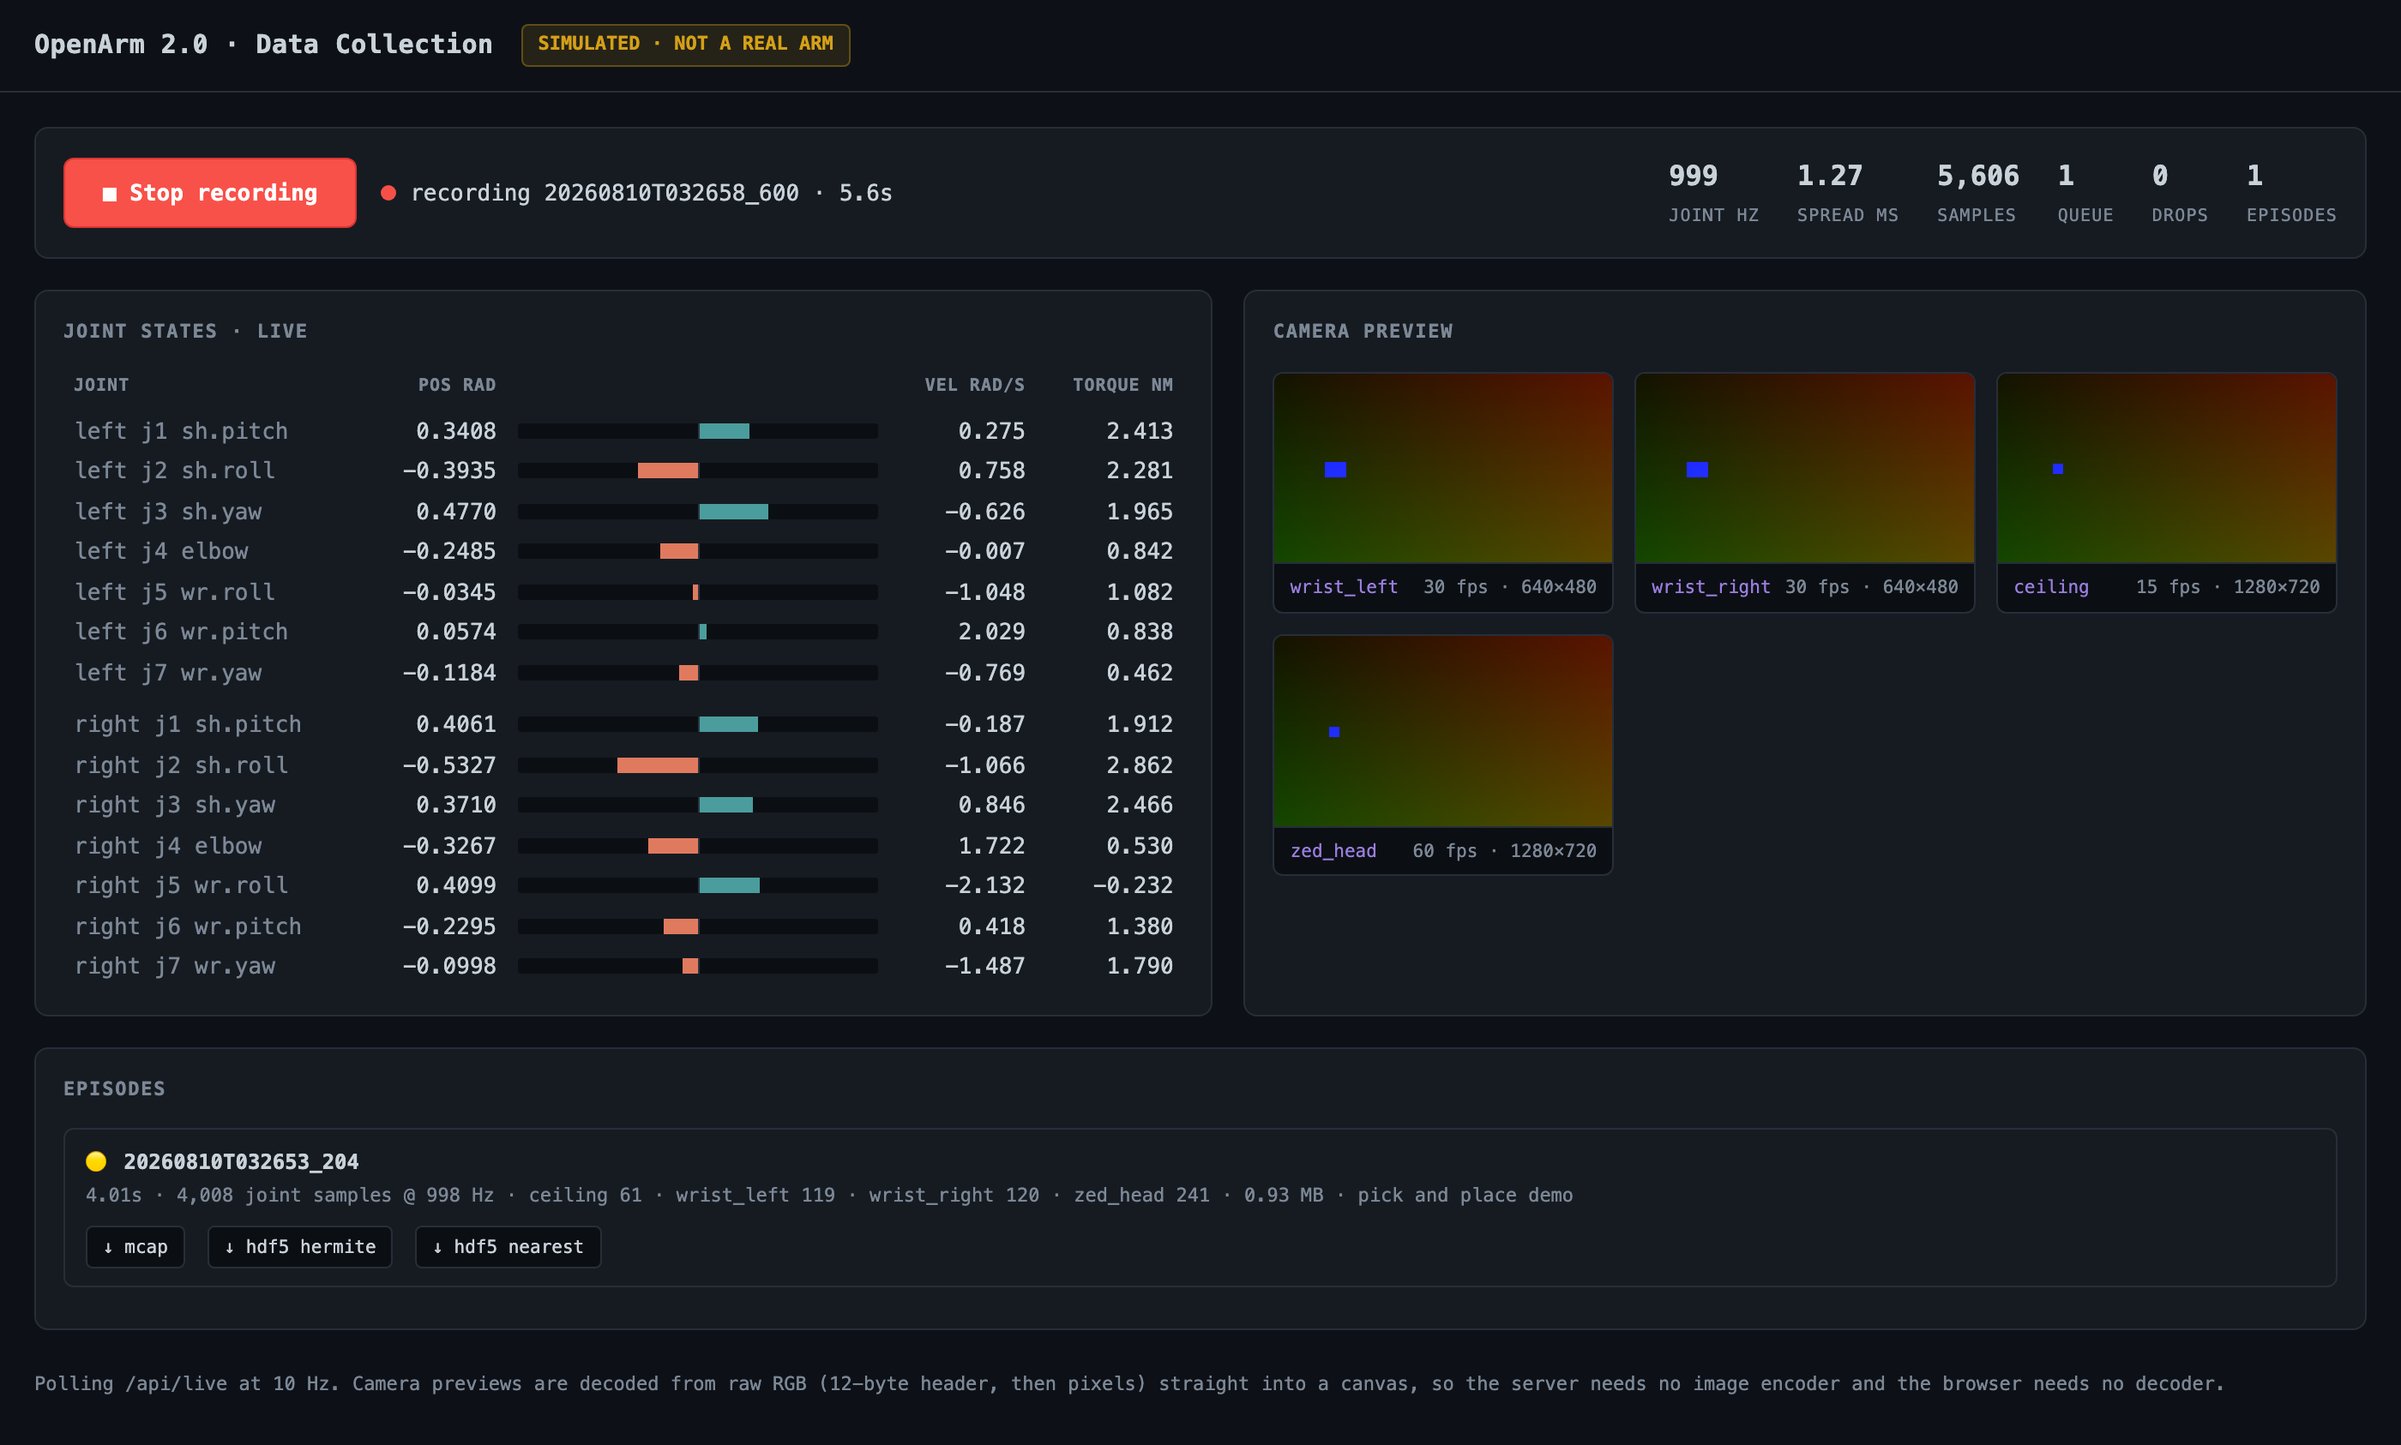
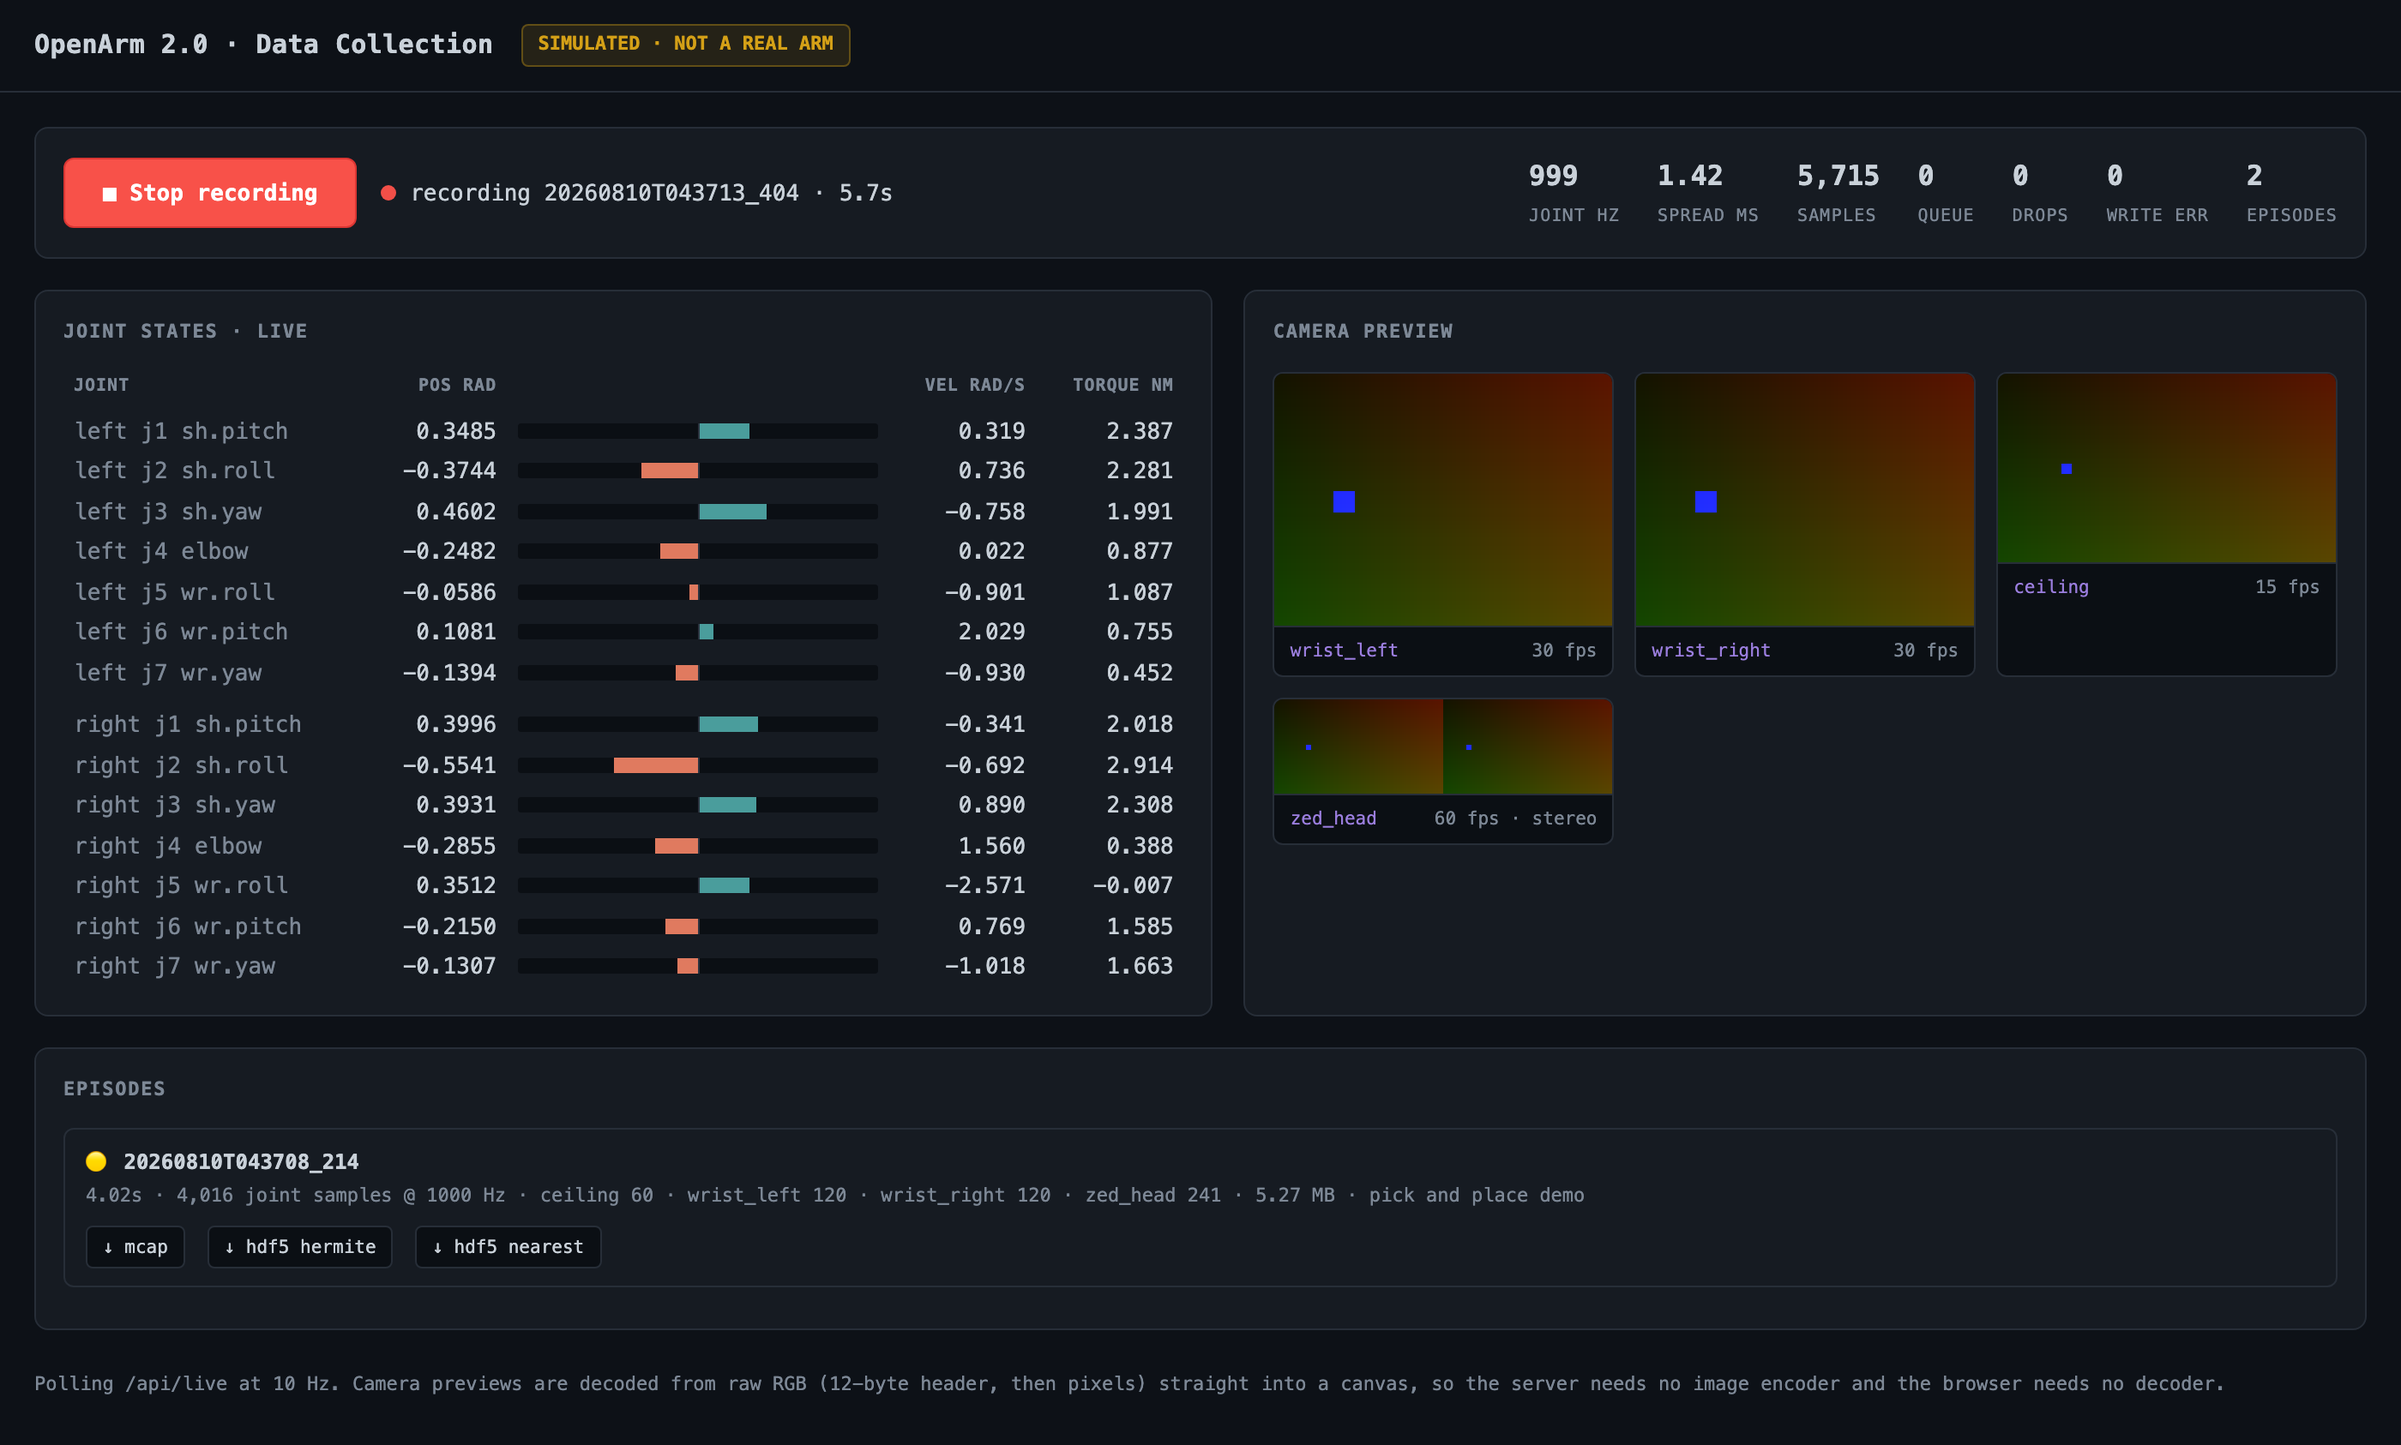
Close three gaps against the brief, plus a UI bug
- The brief lists the ZED as a stereo camera, but it was modelled as mono with
  a decorative stereo=True flag. It now emits left and right views side by
  side at double width, with the right eye's marker offset to show disparity.
  A test asserts the two eyes actually differ.
- Added a consolidated Assumptions section. The brief asks for simplifying
  assumptions to be stated clearly; they were present but scattered across
  nine sections. Eight assumptions with confidence and consequence, plus the
  simplifications made knowingly.
- Added the MIT LICENSE file the README already claimed.

Also fixes a bug the new screenshot exposed: the in-progress recording was
listed as a crashed episode, because its file legitimately has no footer yet.
GET /api/episodes now excludes the active episode.

62 tests.

diff --git a/openarm_pipeline/api/static/index.html b/openarm_pipeline/api/static/index.html
@@ -72,9 +72,10 @@ tr.arm-break td{padding-top:9px}
 /* ---- cameras ---- */
 .cams{display:grid; grid-template-columns:repeat(auto-fit,minmax(180px,1fr)); gap:12px}
 .cam{border:1px solid var(--line); border-radius:6px; overflow:hidden; background:#0b0f14}
-.cam canvas{width:100%; display:block; image-rendering:pixelated; aspect-ratio:16/9;
+.cam canvas{width:100%; height:auto; display:block; image-rendering:pixelated;
             background:#0b0f14}
-.cam .lbl{padding:6px 9px; font-size:10.5px; display:flex; justify-content:space-between;
+.cam .lbl{padding:6px 9px; font-size:10.5px; display:flex; gap:8px;
+          justify-content:space-between; align-items:baseline; white-space:nowrap;
           border-top:1px solid var(--line); color:var(--cam)}
 .cam .lbl em{font-style:normal; color:var(--dim)}
 
@@ -199,7 +200,7 @@ async function setupCams() {
   $("cams").innerHTML = cams.map(c =>
     `<div class="cam">
        <canvas id="cv-${c.name}" width="160" height="90"></canvas>
-       <div class="lbl"><span>${c.name}</span><em>${c.fps} fps · ${c.width}×${c.height}</em></div>
+       <div class="lbl"><span>${c.name}</span><em>${c.fps} fps${c.stereo ? " · stereo" : ""}</em></div>
      </div>`).join("");
 }
 

diff --git a/openarm_pipeline/cameras/mock.py b/openarm_pipeline/cameras/mock.py
@@ -68,8 +68,16 @@ class MockCamera(CameraSource):
         self.drop_rate = drop_rate
         self.exposure_s = exposure_s if exposure_s is not None else 0.5 / spec.fps
 
-        self.w = max(8, int(spec.width * scale))
         self.h = max(8, int(spec.height * scale))
+        # A ZED is a stereo camera: two lenses, a fixed baseline apart. Its SDK
+        # hands back both views, conventionally as one side-by-side frame of
+        # double width. Modelling it as a mono camera would leave the `stereo`
+        # flag as decoration and quietly drop half the sensor.
+        mono_w = max(8, int(spec.width * scale))
+        self.mono_w = mono_w
+        self.w = mono_w * 2 if spec.stereo else mono_w
+        #: metres between the two lenses. Only meaningful when stereo.
+        self.baseline_m = 0.12 if spec.stereo else 0.0
 
         self._running = False
         self._t0_ns = 0
@@ -109,26 +117,43 @@ class MockCamera(CameraSource):
 
     # -- image ------------------------------------------------------------
 
-    def _render(self, t_s: float) -> np.ndarray:
-        """Cheap synthetic frame with a time-dependent marker.
+    def _render_eye(self, t_s: float, disparity_px: int = 0) -> np.ndarray:
+        """One synthetic view. `disparity_px` shifts the marker for the right eye.
 
         Deliberately not a rendering of the arm. Pretending to simulate what
         the cameras would actually see would be a much larger claim than this
         project can support, and would invite the reader to trust pixels that
         mean nothing.
         """
-        img = np.zeros((self.h, self.w, 3), dtype=np.uint8)
+        w = self.mono_w
+        img = np.zeros((self.h, w, 3), dtype=np.uint8)
 
         # static gradient so each camera looks distinct from the others
-        img[:, :, 0] = np.linspace(20, 90, self.w, dtype=np.uint8)[None, :]
+        img[:, :, 0] = np.linspace(20, 90, w, dtype=np.uint8)[None, :]
         img[:, :, 1] = np.linspace(20, 70, self.h, dtype=np.uint8)[:, None]
 
         # marker sweeping left to right once per second -- alignment across
         # cameras is checkable by eye from where this sits in each frame
-        x = int((t_s % 1.0) * (self.w - 1))
+        x = int((t_s % 1.0) * (w - 1)) - disparity_px
         y = self.h // 2
-        img[max(0, y - 2):y + 3, max(0, x - 2):x + 3, 2] = 255
+        if 0 <= x < w:
+            img[max(0, y - 2):y + 3, max(0, x - 2):min(w, x + 3), 2] = 255
         return img
+
+    def _render(self, t_s: float) -> np.ndarray:
+        """A frame. For a stereo camera, both eyes side by side.
+
+        The right eye's marker is shifted by a few pixels, which is what
+        disparity looks like: the same point in the world lands at different
+        horizontal positions in the two views, and the size of that shift is
+        what depth is computed from. Small detail, but a mono image with a
+        `stereo=True` flag on it would be a lie.
+        """
+        if not self.spec.stereo:
+            return self._render_eye(t_s)
+        left = self._render_eye(t_s, disparity_px=0)
+        right = self._render_eye(t_s, disparity_px=max(2, self.mono_w // 20))
+        return np.concatenate([left, right], axis=1)
 
     # -- capture -----------------------------------------------------------
 

diff --git a/openarm_pipeline/api/server.py b/openarm_pipeline/api/server.py
@@ -109,7 +109,8 @@ def get_live() -> dict:
 @app.get("/api/cameras", tags=["recorder"])
 def list_cameras() -> list[dict]:
     return [{"name": c.name, "fps": c.spec.fps, "width": c.spec.width,
-             "height": c.spec.height, "is_mock": c.is_mock}
+             "height": c.spec.height, "stereo": c.spec.stereo,
+             "is_mock": c.is_mock}
             for c in recorder.cameras]
 
 
@@ -153,8 +154,17 @@ def stop_recording() -> dict:
 
 @app.get("/api/episodes", tags=["episodes"])
 def list_episodes() -> list[dict]:
-    """Newest first. Reads sidecar metadata only, never the recordings."""
-    return [ref.summary() for ref in registry.list()]
+    """Finished episodes, newest first. Reads sidecars only, never recordings.
+
+    The episode currently being recorded is excluded. Its file has no footer
+    and no sidecar yet, so the reader correctly identifies it as incomplete and
+    the listing would show a live take as "RECOVERED FROM AN INCOMPLETE
+    RECORDING" with zero samples. That is alarming and wrong: the recording is
+    not damaged, it is unfinished. The control bar already reports it live, and
+    it joins the list the moment it is stopped.
+    """
+    active = recorder.status().episode_id
+    return [ref.summary() for ref in registry.list() if ref.episode_id != active]
 
 
 @app.get("/api/episodes/{episode_id}", tags=["episodes"])

diff --git a/tests/test_resilience.py b/tests/test_resilience.py
@@ -397,3 +397,31 @@ def test_a_truncated_episode_exports_and_says_it_was_truncated(tmp_path):
         assert h["timing/t_s"].shape[0] > 0, "nothing survived the export"
         assert bool(h.attrs["source_truncated"]) is True
         assert "INCOMPLETE" in h.attrs["warning"]
+
+
+# ------------------------------------------------------- stereo
+
+def test_the_zed_actually_emits_a_stereo_pair():
+    """The brief lists it as "ZED stereo".
+
+    A mono image behind a stereo=True flag would be the flag lying, and would
+    silently drop half the sensor.
+    """
+    from openarm_pipeline.cameras.mock import make_mock_cameras
+
+    cams = {c.name: c for c in make_mock_cameras()}
+    zed, wrist = cams["zed_head"], cams["wrist_left"]
+
+    assert zed.spec.stereo is True
+    assert wrist.spec.stereo is False
+
+    stereo_frame = zed._render(0.30)
+    mono_frame = wrist._render(0.30)
+
+    assert stereo_frame.shape[1] == 2 * zed.mono_w, "the ZED frame is not double width"
+    assert mono_frame.shape[1] == wrist.mono_w
+
+    # the two eyes must differ, otherwise it is one image printed twice
+    left = stereo_frame[:, : zed.mono_w]
+    right = stereo_frame[:, zed.mono_w:]
+    assert not np.array_equal(left, right), "both eyes are identical; disparity is missing"

diff --git a/README.md b/README.md
@@ -40,7 +40,7 @@ robot learning, and serves them over a REST API with a live dashboard.
 python3 -m venv .venv
 ./.venv/bin/pip install -r requirements.txt
 
-./.venv/bin/python -m pytest tests/ -q          # 61 tests
+./.venv/bin/python -m pytest tests/ -q          # 62 tests
 ./.venv/bin/python scripts/read_joints.py       # live joint state, simulated arm
 ./.venv/bin/python scripts/demo_sync.py         # 5 streams captured and aligned
 ./.venv/bin/uvicorn openarm_pipeline.api.server:app   # API + dashboard on :8000
@@ -529,6 +529,16 @@ this directly.
 
 Cameras get **nearest frame only**, and the staleness is recorded rather than hidden.
 
+### The ZED is stereo, and is modelled as stereo
+
+The brief lists it as "ZED stereo", so it emits what a ZED SDK emits: **left and right views side
+by side in one frame**, double width. The right eye's marker is offset, which is what disparity
+looks like, and the size of that offset is what depth would be computed from.
+
+Treating it as a mono camera would have left `stereo=True` in the config as decoration and quietly
+dropped half the sensor. Depth itself is not computed here; that is the ZED SDK's job, and this
+pipeline's responsibility is to record what the camera hands over with an honest timestamp on it.
+
 ### A camera frame is an interval, not an instant
 
 A CAN reading is sampled at a moment. An image **integrates light across its whole exposure**, so
@@ -899,6 +909,32 @@ Exactly the calls the buttons make.
 
 ---
 
+## Assumptions
+
+The brief asks for these to be stated clearly, so they are collected here rather than left
+scattered. Each is also marked at the point in the code where it bites.
+
+| # | Assumption | Confidence | If it is wrong |
+|:--:|---|---|---|
+| 1 | **Motor scaling limits** (`P_MAX`, `V_MAX`, `T_MAX`) follow the public MIT/Damiao convention | 🔴 Unverified. No datasheet | Every joint value is wrong, smoothly and silently. **The only failure in the system with no error signal.** First thing I would test on hardware |
+| 2 | **Two messages per motor per control cycle** (one command, one reply) | 🟡 My model, not from their docs | The bus-load figure changes; the conclusion that one bus cannot carry both arms does not |
+| 3 | **~50 µs per CAN FD frame**, giving ~70 % load per arm | 🟡 Estimate | Same as above. `canbusload` settles it in one command |
+| 4 | **Camera frame rates** of 60/30/30/15 fps | 🟡 Assumed | Nothing structural. They were chosen to be mutually non-harmonic so the sync logic is genuinely exercised |
+| 5 | **Motor model per joint**: 8009P at the shoulder, 43-series at forearm and wrist | 🟡 Inferred from torque needs | Wrong scaling on the affected joints, same failure as #1 |
+| 6 | **CAN IDs 0x01–0x07 per arm**, one bus each | 🟡 Convention | Frames land in `frames_unknown` and are counted, so this one fails loudly |
+| 7 | **Frames timestamped mid-exposure** | 🟢 Standard convention | A systematic image-to-joint offset of half an exposure, which is exactly the bias the pipeline is built to expose |
+| 8 | **The ZED delivers left and right side by side** | 🟢 How the SDK presents it | Only affects how the frame is split downstream |
+
+### Simplifications made knowingly
+
+- **Images are stored as raw arrays.** Real deployment needs h264/AV1 with a frame index. Four cameras at full resolution is roughly 150 MB/s.
+- **Synthetic frames render at 1/8 sensor resolution** to keep the demo cheap. Declared resolution is preserved in metadata.
+- **Mock motion is a sum of sinusoids**, not a real demonstration and not a dynamics model. Torque is a gravity-plus-inertia stand-in.
+- **Single host.** Two machines would need PTP and a clock-domain concept the alignment code does not have.
+- **No rolling shutter or motion blur** in the camera model.
+
+---
+
 ## Fault injection: what broke
 
 Every claim above is easy to make and harder to hold. So the system was attacked deliberately:
@@ -971,6 +1007,16 @@ s = recorder.start_recording(...)  # both then call this
 The lock inside `start_recording()` was doing its job on the data and saying nothing about it.
 Fixed by moving the decision inside the lock and returning `None` to the loser, so the answer and
 the action are one atomic step. Eight concurrent starts now give exactly one 200 and seven 409s.
+
+### 5. A live recording looked like a crashed one
+
+Caught while re-taking the dashboard screenshot. The episode being recorded right now has no
+footer and no sidecar yet, so the reader correctly called it incomplete and the list rendered a
+healthy live take as **"0 joint samples · RECOVERED FROM AN INCOMPLETE RECORDING"**.
+
+The crash detection was right; the context was missing. `GET /api/episodes` now excludes the
+episode currently being written, since the control bar already reports it live and it joins the
+list the moment it stops.
 
 ### What held up
 
@@ -1068,7 +1114,7 @@ scripts/
 docs/
   01-can-setup.md  Task 1, in full
   dashboard.png    Task 5 screenshot
-tests/             61 tests, incl. fault injection
+tests/             62 tests, incl. fault injection
 ```
 
 ## Licence
